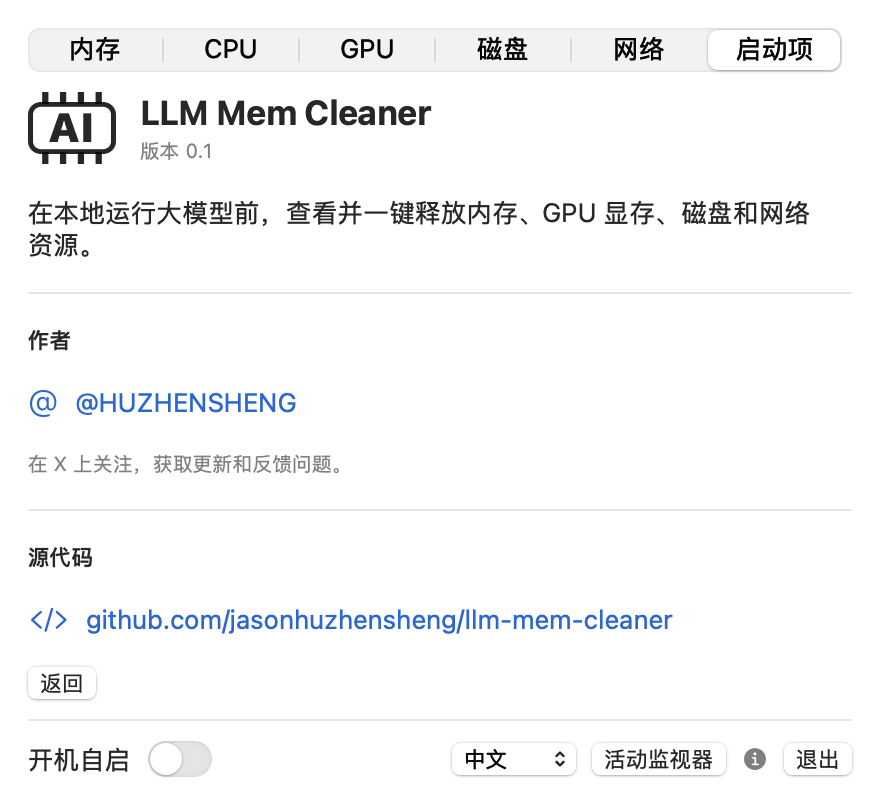
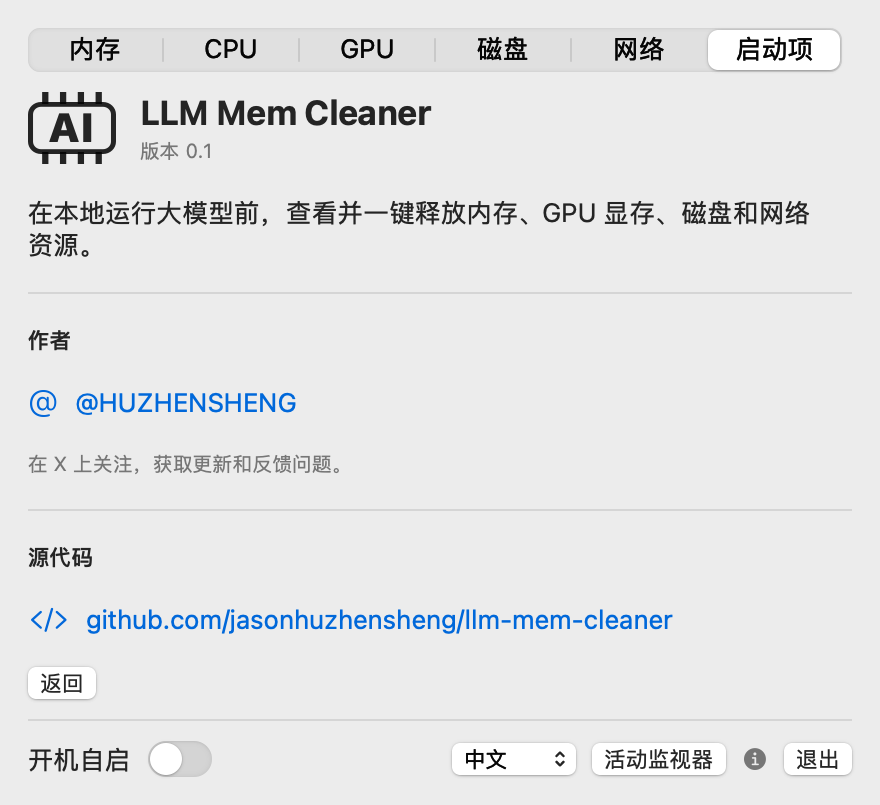
Give screenshots an opaque background
The hosting view draws no background, so captures were transparent and
rendered black on GitHub's dark theme. Flatten them onto the window
background color.

diff --git a/Sources/LLMMemCleaner/Screenshots.swift b/Sources/LLMMemCleaner/Screenshots.swift
@@ -57,6 +57,27 @@ enum Screenshots {
         view.layoutSubtreeIfNeeded()
         guard let rep = view.bitmapImageRepForCachingDisplay(in: view.bounds) else { return }
         view.cacheDisplay(in: view.bounds, to: rep)
-        try? rep.representation(using: .png, properties: [:])?.write(to: url)
+        try? opaque(rep, appearance: view.window?.appearance)?.representation(using: .png, properties: [:])?.write(to: url)
+    }
+
+    /// The hosting view draws no background, so the capture is transparent and turns black on
+    /// dark-themed pages. Flatten it onto the window background color.
+    private static func opaque(_ rep: NSBitmapImageRep, appearance: NSAppearance?) -> NSBitmapImageRep? {
+        guard let image = rep.cgImage,
+              let ctx = CGContext(data: nil, width: image.width, height: image.height, bitsPerComponent: 8,
+                                  bytesPerRow: 0, space: CGColorSpace(name: CGColorSpace.sRGB)!,
+                                  bitmapInfo: CGImageAlphaInfo.noneSkipLast.rawValue) else { return nil }
+        var background = NSColor.windowBackgroundColor.cgColor
+        (appearance ?? NSAppearance(named: .aqua)!).performAsCurrentDrawingAppearance {
+            background = NSColor.windowBackgroundColor.cgColor
+        }
+        let rect = CGRect(x: 0, y: 0, width: image.width, height: image.height)
+        ctx.setFillColor(background)
+        ctx.fill(rect)
+        ctx.draw(image, in: rect)
+        guard let flat = ctx.makeImage() else { return nil }
+        let out = NSBitmapImageRep(cgImage: flat)
+        out.size = rep.size  // keep 2x density metadata
+        return out
     }
 }
